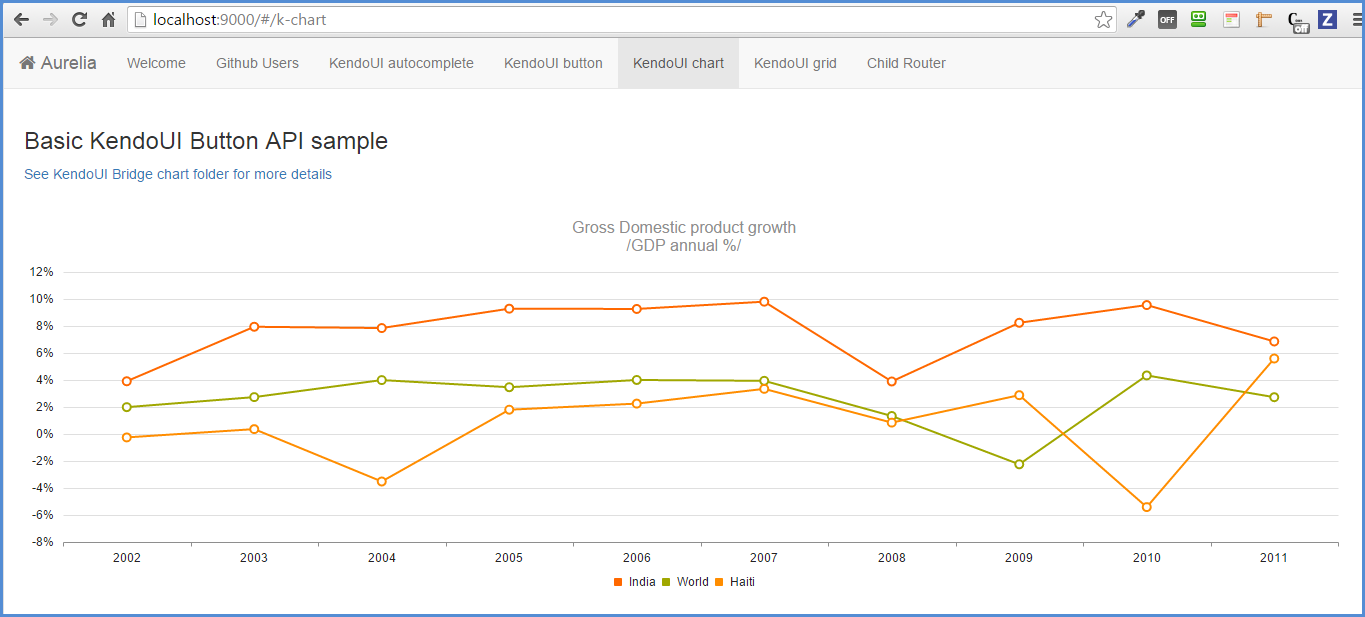
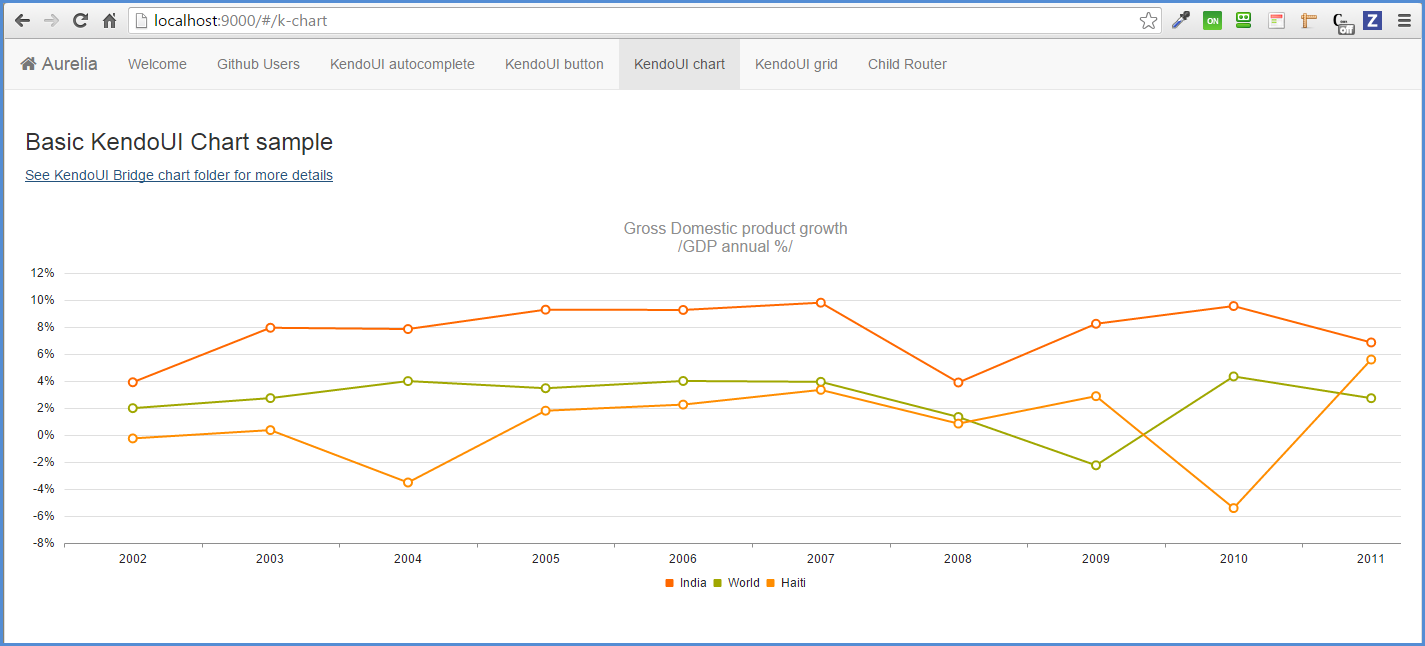
looking for better names and structure of help section
fix(sample): looking for better names and structure of help section

diff --git a/sample/src/about/about.html b/sample/src/about/about.html
@@ -1,12 +1,25 @@
 <template>
     <section>
-        <h2>About Aurelia-KendoUI Bridge</h2>
+        <h2>About Aurelia-KendoUI Components Catalog</h2>
 
         <br>
 
         <div>
-            <br>
-            <br>
+
+            <div class="row">
+                <div class="col-xs-12 col-sm-2">
+
+                </div>
+                <div class="col-xs-12 col-sm-7">
+                    Lorem ipsum dolor sit amet, consectetur adipiscing elit. Aenean sit amet est scelerisque, tristique mauris et, pharetra arcu. Interdum et malesuada fames ac ante ipsum primis in faucibus. Aenean luctus mi sed purus placerat euismod. Cras dolor quam, sollicitudin nec ligula et, pellentesque efficitur dolor. Proin eget blandit nisl. Mauris venenatis porttitor risus a pulvinar. Aliquam tristique sem in eleifend pulvinar. Integer ac eros quis tellus volutpat semper quis in sapien. Morbi dapibus mattis leo vel aliquet. Vestibulum nec luctus ante. Curabitur tristique sapien vel nulla interdum efficitur. Maecenas pretium hendrerit nisi sed bibendum. Phasellus interdum risus ac laoreet aliquam.
+
+
+                </div>
+                <div class="col-xs-12 col-sm-2">
+
+                </div>
+            </div>
+            <hr>
 
             <!-- Row 1 - 3 columns (images) -->
             <div class="row">

diff --git a/sample/src/help/help.html b/sample/src/help/help.html
@@ -1,7 +1,7 @@
 <template>
     <require from="./doc"></require>
     <section>
-        <h2>Aurelia-KendoUI Bridge Help</h2>
+        <h3>Aurelia-KendoUI Components Catalog Help</h3>
 
           <div k-tabstrip k-on-select.delegate="tabSelected($event.detail)">
             <ul>
@@ -19,7 +19,7 @@
             </div>
             <div style="height: 790px;">
               <br> <br> <br> <br> <br> <br> <br> <br>
-              Let's put <a href="https://www.pubnub.com/blog/2015-08-25-webrtc-video-chat-app-in-20-lines-of-javascript/">Pubnub's WebRTC Video Chat </a>
+              Future home for <a href="https://www.pubnub.com/blog/2015-08-25-webrtc-video-chat-app-in-20-lines-of-javascript/">Pubnub's WebRTC Video Chat </a>
               here.
             </div>
           </div>

diff --git a/sample/src/shared/showcase.html b/sample/src/shared/showcase.html
@@ -1,7 +1,8 @@
 <template>
     <!-- Page is shared by all widgets and sets up the sub-navigation pane -->
     <section>
-        <h2>${ router.title }</h2>
+    <br>
+        <h3>${ router.title }</h3>
         <div>
             <div class="col-md-2">
                 <ul class="well nav nav-pills nav-stacked">

diff --git a/sample/src/help/docs/about-this-app/how-to-use-this-app.md b/sample/src/help/docs/about-this-app/how-to-use-this-app.md
@@ -618,7 +618,9 @@ results with the instantiation of the button:
 </p>
 
 <p>
-**Observe** that the button control. just like the autocomplete control are HTML native elements and that KendoUI Aurelia bridge adds several custom attributes (`k-enable`, `k-icon` that are bound to [KendoUI button "matching native properties" ](http://docs.telerik.com/kendo-ui/api/javascript/ui/button). Note also the definition of the event triggers that are activating the code in the view model:
+
+**Observe** that the button control, just like the autocomplete control are HTML native elements and that KendoUI Aurelia bridge adds several custom attributes (`k-enable`, `k-icon` that are bound to [KendoUI button](http://docs.telerik.com/kendo-ui/api/javascript/ui/button)  "matching native properties" . Note also the definition of the event triggers that are activating the code in the view model:
+
 </p>
 
 <br>
@@ -681,11 +683,11 @@ Unlike the previous two controls, Chart is represented (by Aurelia KendoUI bridg
 <br>
 
 <p>
-Here is this view rendered by the **[application associated with this tutorial](https://github.com/aurelia-ui-toolkits/skeleton-navigation-kendo)**.
+Here is this view rendered by the [application associated with this tutorial](https://github.com/aurelia-ui-toolkits/skeleton-navigation-kendo).
 </p>
 
 <p align=center>
-  <img src="http://i.imgur.com/INr6eDS.png"></img>
+  <img src="http://i.imgur.com/5Q2qFKS.png"></img>
  <br><br>
 Image 8
 </p>
